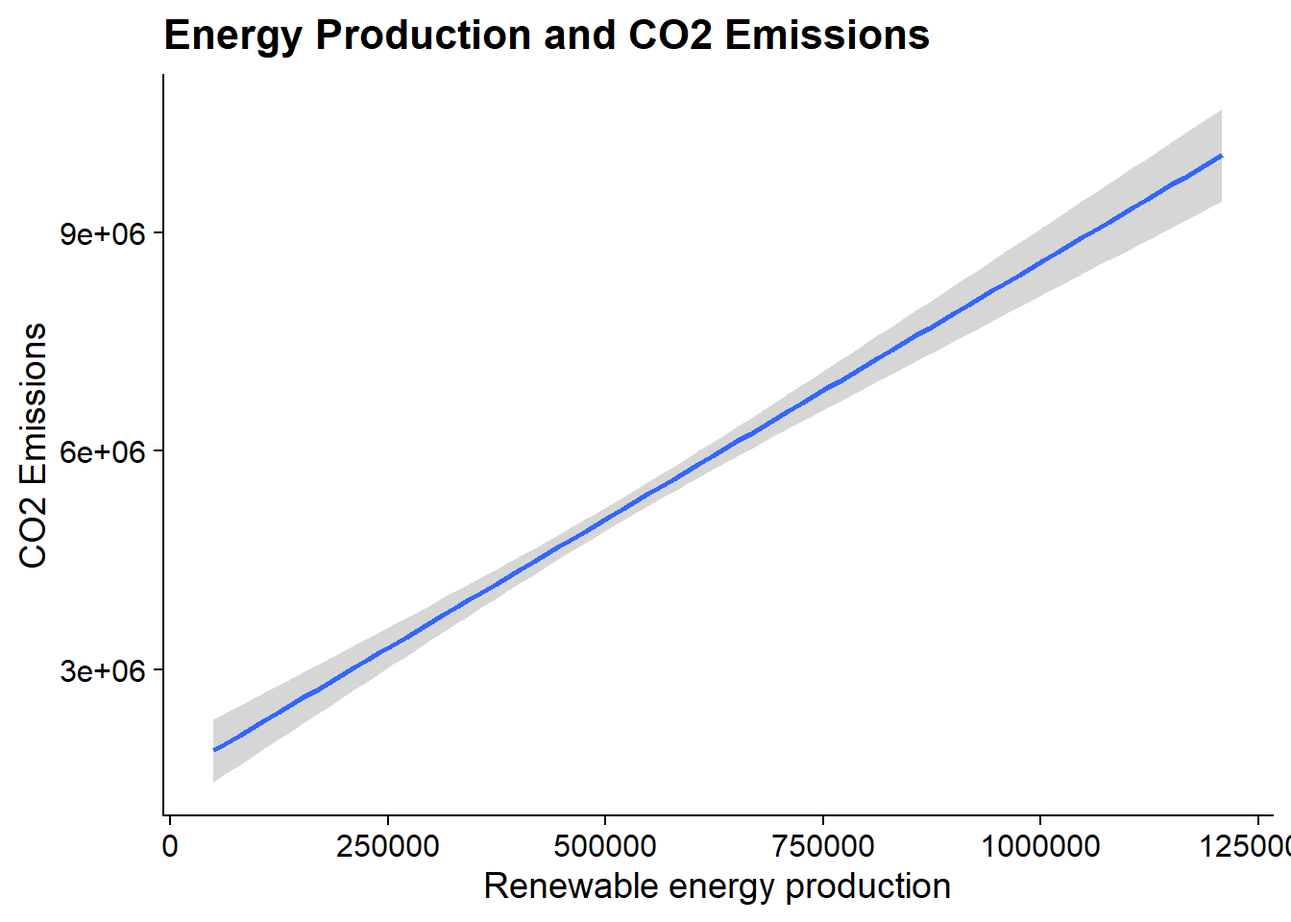
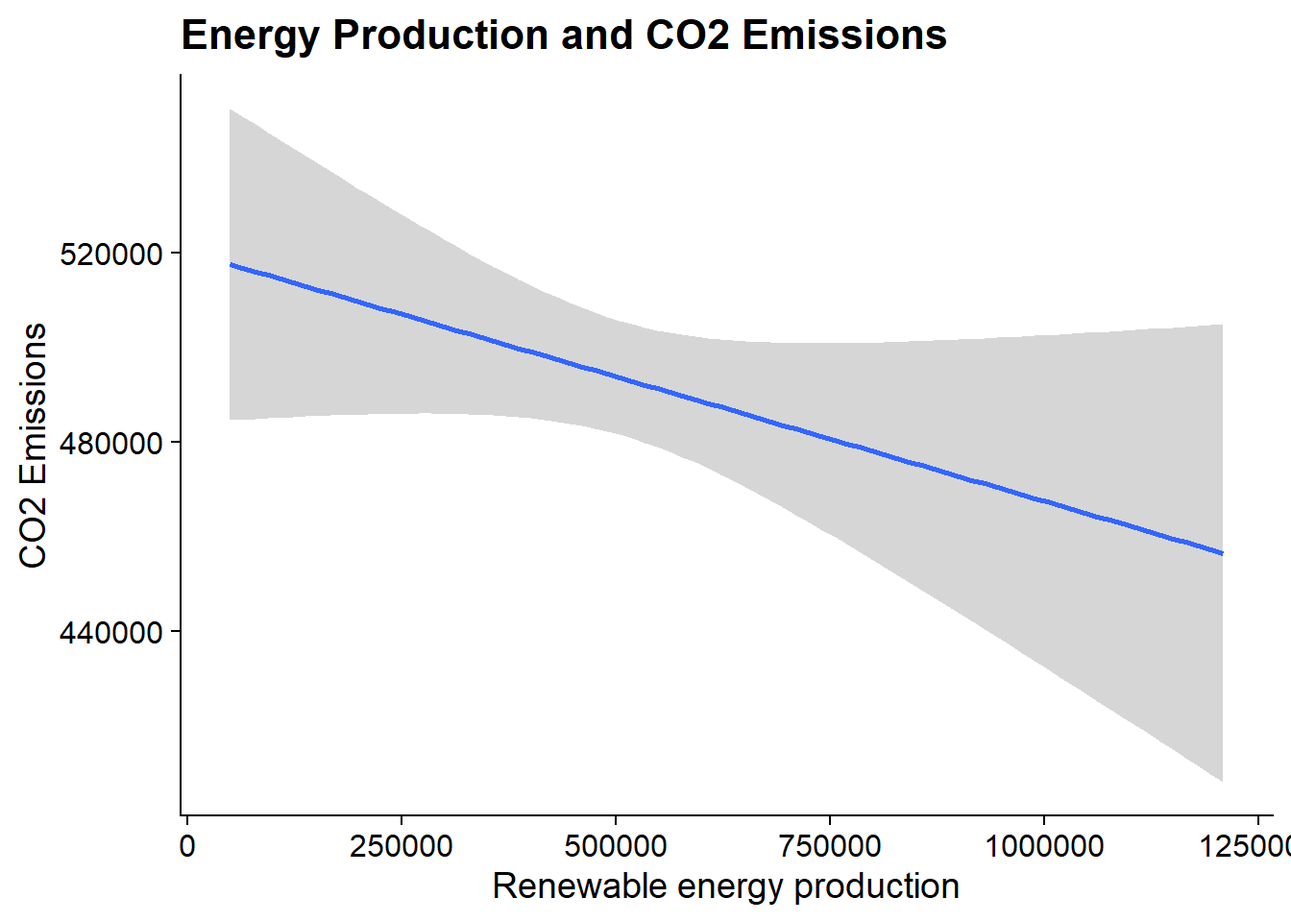
chore: actualiza sitio web

diff --git a/docs/bitacora-3.html b/docs/bitacora-3.html
@@ -175,8 +175,10 @@ pre > code.sourceCode > span > a:first-child::before { text-decoration: underlin
   <li><a href="#planificación" id="toc-planificación" class="nav-link" data-scroll-target="#planificación"><span class="header-section-number">3.1</span> Planificación</a>
   <ul class="collapse">
   <li><a href="#análisis-de-modelación" id="toc-análisis-de-modelación" class="nav-link" data-scroll-target="#análisis-de-modelación"><span class="header-section-number">3.1.1</span> Análisis de modelación</a></li>
-  <li><a href="#fichas-de-resultados" id="toc-fichas-de-resultados" class="nav-link" data-scroll-target="#fichas-de-resultados"><span class="header-section-number">3.1.2</span> Fichas de resultados</a></li>
-  <li><a href="#ordenamiento-de-los-elementos-del-reporte" id="toc-ordenamiento-de-los-elementos-del-reporte" class="nav-link" data-scroll-target="#ordenamiento-de-los-elementos-del-reporte"><span class="header-section-number">3.1.3</span> Ordenamiento de los elementos del reporte</a></li>
+  <li><a href="#análisis-descriptivo" id="toc-análisis-descriptivo" class="nav-link" data-scroll-target="#análisis-descriptivo"><span class="header-section-number">3.1.2</span> Análisis Descriptivo</a></li>
+  <li><a href="#justificación-modelo-seleccionado" id="toc-justificación-modelo-seleccionado" class="nav-link" data-scroll-target="#justificación-modelo-seleccionado"><span class="header-section-number">3.1.3</span> Justificación modelo seleccionado</a></li>
+  <li><a href="#fichas-de-resultados" id="toc-fichas-de-resultados" class="nav-link" data-scroll-target="#fichas-de-resultados"><span class="header-section-number">3.1.4</span> Fichas de resultados</a></li>
+  <li><a href="#ordenamiento-de-los-elementos-del-reporte" id="toc-ordenamiento-de-los-elementos-del-reporte" class="nav-link" data-scroll-target="#ordenamiento-de-los-elementos-del-reporte"><span class="header-section-number">3.1.5</span> Ordenamiento de los elementos del reporte</a></li>
   </ul></li>
   <li><a href="#parte-de-escritura" id="toc-parte-de-escritura" class="nav-link" data-scroll-target="#parte-de-escritura"><span class="header-section-number">3.2</span> Parte de escritura</a></li>
   <li><a href="#parte-de-reflexión" id="toc-parte-de-reflexión" class="nav-link" data-scroll-target="#parte-de-reflexión"><span class="header-section-number">3.3</span> Parte de reflexión</a></li>
@@ -211,52 +213,6 @@ pre > code.sourceCode > span > a:first-child::before { text-decoration: underlin
 
 <section id="setup" class="level3 hidden" data-number="3.0.1">
 <h3 class="hidden anchored" data-number="3.0.1" data-anchor-id="setup"><span class="header-section-number">3.0.1</span> Setup</h3>
-<div class="cell" data-warnings="false" data-hash="bitacora-3_cache/html/unnamed-chunk-1_957fbfa0892c9d37de72bc560db0de78">
-<div class="cell-output cell-output-stderr">
-<pre><code>Warning: package 'ggplot2' was built under R version 4.3.3</code></pre>
-</div>
-<div class="cell-output cell-output-stderr">
-<pre><code>Warning: package 'dplyr' was built under R version 4.3.3</code></pre>
-</div>
-<div class="cell-output cell-output-stderr">
-<pre><code>
-Attaching package: 'dplyr'</code></pre>
-</div>
-<div class="cell-output cell-output-stderr">
-<pre><code>The following objects are masked from 'package:stats':
-
-    filter, lag</code></pre>
-</div>
-<div class="cell-output cell-output-stderr">
-<pre><code>The following objects are masked from 'package:base':
-
-    intersect, setdiff, setequal, union</code></pre>
-</div>
-<div class="cell-output cell-output-stderr">
-<pre><code>Warning: package 'palmerpenguins' was built under R version 4.3.3</code></pre>
-</div>
-<div class="cell-output cell-output-stderr">
-<pre><code>Warning: package 'ggthemes' was built under R version 4.3.3</code></pre>
-</div>
-<div class="cell-output cell-output-stderr">
-<pre><code>Warning: package 'cowplot' was built under R version 4.3.3</code></pre>
-</div>
-<div class="cell-output cell-output-stderr">
-<pre><code>
-Attaching package: 'cowplot'</code></pre>
-</div>
-<div class="cell-output cell-output-stderr">
-<pre><code>The following object is masked from 'package:ggthemes':
-
-    theme_map</code></pre>
-</div>
-<div class="cell-output cell-output-stderr">
-<pre><code>Warning: package 'tidyr' was built under R version 4.3.3</code></pre>
-</div>
-<div class="cell-output cell-output-stderr">
-<pre><code>Warning: package 'purrr' was built under R version 4.3.3</code></pre>
-</div>
-</div>
 </section>
 <section id="planificación" class="level2" data-number="3.1">
 <h2 data-number="3.1" class="anchored" data-anchor-id="planificación"><span class="header-section-number">3.1</span> Planificación</h2>
@@ -264,52 +220,162 @@ Attaching package: 'cowplot'</code></pre>
 <h3 data-number="3.1.1" class="anchored" data-anchor-id="análisis-de-modelación"><span class="header-section-number">3.1.1</span> Análisis de modelación</h3>
 <p>Tomando en consideración las recomendaciones sobre la base de datos, se decidió reordenarla, de acuerdo a las categorías más relevantes a la pregunta de investigación, y anualizar los datos, uniendo las columnas con el mismo país, año y tipo de energía.</p>
 <p>Además, con el fin de automatizar la carga de la base de datos, la ruta de acceso parte desde la carpeta con el repositorio, de modo que al clonar el repositorio, este documento por sí mismo, sea capaz de acceder a la base de datos, facilitando el proceso.</p>
-<div class="cell" data-messages="false" data-warnings="false" data-hash="bitacora-3_cache/html/unnamed-chunk-2_ddc06201e833f9d9e5e008ffe8151653">
-<div class="sourceCode cell-code" id="cb13"><pre class="sourceCode r code-with-copy"><code class="sourceCode r"><span id="cb13-1"><a href="#cb13-1" aria-hidden="true" tabindex="-1"></a>original <span class="ot">&lt;-</span> <span class="fu">read.csv</span>(<span class="st">"data/complete_renewable_energy_dataset.csv"</span>)</span>
-<span id="cb13-2"><a href="#cb13-2" aria-hidden="true" tabindex="-1"></a>data <span class="ot">&lt;-</span> original<span class="sc">|&gt;</span> <span class="fu">group_by</span>(Country, Year, Energy.Type, Renewable.Energy.Education.Programs, Government.Policies) <span class="sc">|&gt;</span> <span class="fu">summarise</span>(<span class="at">Total.Production =</span> <span class="fu">sum</span>(Production..GWh.), <span class="at">Electricity.Prices =</span> <span class="fu">mean</span>(Electricity.Prices), <span class="at">R.D.Expenditure =</span> <span class="fu">sum</span>(R.D.Expenditure), <span class="at">CO2.Emissions =</span> <span class="fu">sum</span>(CO2.Emissions), <span class="at">Investments..USD. =</span> <span class="fu">sum</span>(Investments..USD.), <span class="at">Public.Awareness =</span> <span class="fu">mean</span>(Public.Awareness), <span class="at">Educational.Level =</span> <span class="fu">mean</span>(Educational.Level), <span class="at">Energy.Exports =</span> <span class="fu">sum</span>(Energy.Exports), <span class="at">Energy.Imports =</span> <span class="fu">sum</span>(Energy.Imports), <span class="at">Renewable.Energy.Jobs =</span> <span class="fu">sum</span>(Renewable.Energy.Jobs), <span class="at">Renewable.Energy.Patents =</span> <span class="fu">sum</span>(Renewable.Energy.Patents), <span class="at">Corruption.Perception.Index =</span> <span class="fu">mean</span>(Corruption.Perception.Index))</span></code><button title="Copiar al portapapeles" class="code-copy-button"><i class="bi"></i></button></pre></div>
+<p>Finalmente, se juntan las variables <code>Energy.Imports</code> y <code>Energy.Exports</code>, para lo cual, se pivotea de modo que el flujo de entradas y salidas quede en una sola variable denominada Energy.Flow, que se clasifique en importación o exportación por la variable Energy.Flow.Type.</p>
+<div class="cell" data-messages="false" data-warnings="false" data-hash="bitacora-3_cache/html/unnamed-chunk-2_3cdd056b1904337f3fde67a3b1d231fe">
+<div class="sourceCode cell-code" id="cb1"><pre class="sourceCode r code-with-copy"><code class="sourceCode r"><span id="cb1-1"><a href="#cb1-1" aria-hidden="true" tabindex="-1"></a>original <span class="ot">&lt;-</span> <span class="fu">read.csv</span>(<span class="st">"data/complete_renewable_energy_dataset.csv"</span>)</span>
+<span id="cb1-2"><a href="#cb1-2" aria-hidden="true" tabindex="-1"></a>data <span class="ot">&lt;-</span> original<span class="sc">|&gt;</span> <span class="fu">group_by</span>(Country, Year, Energy.Type) <span class="sc">|&gt;</span> <span class="fu">summarise</span>(<span class="at">Total.Production =</span> <span class="fu">sum</span>(Production..GWh.), <span class="at">Electricity.Prices =</span> <span class="fu">mean</span>(Electricity.Prices), <span class="at">R.D.Expenditure =</span> <span class="fu">sum</span>(R.D.Expenditure), <span class="at">CO2.Emissions =</span> <span class="fu">sum</span>(CO2.Emissions), <span class="at">Investments..USD. =</span> <span class="fu">sum</span>(Investments..USD.), <span class="at">Public.Awareness =</span> <span class="fu">mean</span>(Public.Awareness), <span class="at">Educational.Level =</span> <span class="fu">mean</span>(Educational.Level), <span class="at">Export =</span> <span class="fu">sum</span>(Energy.Exports), <span class="at">Import =</span> <span class="fu">sum</span>(Energy.Imports), <span class="at">Renewable.Energy.Jobs =</span> <span class="fu">sum</span>(Renewable.Energy.Jobs), <span class="at">Renewable.Energy.Patents =</span> <span class="fu">sum</span>(Renewable.Energy.Patents), <span class="at">Corruption.Perception.Index =</span> <span class="fu">mean</span>(Corruption.Perception.Index), <span class="at">Renewable.Energy.Education.Programs =</span> <span class="fu">max</span>(Renewable.Energy.Education.Programs), <span class="at">Government.Policies=</span> <span class="fu">max</span>(Government.Policies)) <span class="sc">%&gt;%</span> </span>
+<span id="cb1-3"><a href="#cb1-3" aria-hidden="true" tabindex="-1"></a>  <span class="fu">pivot_longer</span>(<span class="at">cols =</span> <span class="fu">c</span>(<span class="st">"Import"</span>, <span class="st">"Export"</span>),</span>
+<span id="cb1-4"><a href="#cb1-4" aria-hidden="true" tabindex="-1"></a>             <span class="at">names_to =</span> <span class="st">"Energy.Flow.Type"</span>,</span>
+<span id="cb1-5"><a href="#cb1-5" aria-hidden="true" tabindex="-1"></a>             <span class="at">values_to =</span> <span class="st">"Energy.Flow"</span>)</span></code><button title="Copiar al portapapeles" class="code-copy-button"><i class="bi"></i></button></pre></div>
+<div class="cell-output cell-output-stderr">
+<pre><code>`summarise()` has grouped output by 'Country', 'Year'. You can override using
+the `.groups` argument.</code></pre>
+</div>
+<div class="sourceCode cell-code" id="cb3"><pre class="sourceCode r code-with-copy"><code class="sourceCode r"><span id="cb3-1"><a href="#cb3-1" aria-hidden="true" tabindex="-1"></a>data</span></code><button title="Copiar al portapapeles" class="code-copy-button"><i class="bi"></i></button></pre></div>
+<div class="cell-output cell-output-stdout">
+<pre><code># A tibble: 2,100 × 17
+# Groups:   Country, Year [240]
+   Country  Year Energy.Type Total.Production Electricity.Prices R.D.Expenditure
+   &lt;chr&gt;   &lt;int&gt; &lt;chr&gt;                  &lt;dbl&gt;              &lt;dbl&gt;           &lt;dbl&gt;
+ 1 Austra…  2000 Biomass               43637.              0.204     6451974689.
+ 2 Austra…  2000 Biomass               43637.              0.204     6451974689.
+ 3 Austra…  2000 Geothermal           146551.              0.198    11552134303.
+ 4 Austra…  2000 Geothermal           146551.              0.198    11552134303.
+ 5 Austra…  2000 Hydro                158083.              0.217    20096098212.
+ 6 Austra…  2000 Hydro                158083.              0.217    20096098212.
+ 7 Austra…  2000 Solar                 64258.              0.252     4464797633.
+ 8 Austra…  2000 Solar                 64258.              0.252     4464797633.
+ 9 Austra…  2000 Wind                  94075.              0.260    11999369763.
+10 Austra…  2000 Wind                  94075.              0.260    11999369763.
+# ℹ 2,090 more rows
+# ℹ 11 more variables: CO2.Emissions &lt;dbl&gt;, Investments..USD. &lt;dbl&gt;,
+#   Public.Awareness &lt;dbl&gt;, Educational.Level &lt;dbl&gt;,
+#   Renewable.Energy.Jobs &lt;int&gt;, Renewable.Energy.Patents &lt;int&gt;,
+#   Corruption.Perception.Index &lt;dbl&gt;,
+#   Renewable.Energy.Education.Programs &lt;int&gt;, Government.Policies &lt;int&gt;,
+#   Energy.Flow.Type &lt;chr&gt;, Energy.Flow &lt;dbl&gt;</code></pre>
+</div>
+</div>
+<p>Nótese que se cambiaron las variables con respecto a la bitácora anterior, con el fin de simplificar el análisis, pero aún así, abarcar diversas áreas, de acuerdo a la pregunta de investigación: social, económica y ambiental.</p>
+</section>
+<section id="análisis-descriptivo" class="level3" data-number="3.1.2">
+<h3 data-number="3.1.2" class="anchored" data-anchor-id="análisis-descriptivo"><span class="header-section-number">3.1.2</span> Análisis Descriptivo</h3>
+<p>Dados ya los hallazgos anteriores, resulta interesante analizar el flujo energético de los países. Para ello, la figura 3.1 representa el total de importaciones, comparado al total de exportaciones, por cada país durante el periodo estudiado, 2000 a 2020.</p>
+<div class="cell" data-messages="false" data-warnings="false" data-hash="bitacora-3_cache/html/unnamed-chunk-3_f2f91be9a9e923cce6e58f09ef8d2c5c">
+<div class="sourceCode cell-code" id="cb5"><pre class="sourceCode r code-with-copy"><code class="sourceCode r"><span id="cb5-1"><a href="#cb5-1" aria-hidden="true" tabindex="-1"></a><span class="fu">ggplot</span>(data, <span class="fu">aes</span>(<span class="at">x =</span> Country, <span class="at">y =</span> Energy.Flow)) <span class="sc">+</span></span>
+<span id="cb5-2"><a href="#cb5-2" aria-hidden="true" tabindex="-1"></a>  <span class="fu">geom_bar</span>(<span class="fu">aes</span>(<span class="at">fill =</span> Energy.Flow.Type),</span>
+<span id="cb5-3"><a href="#cb5-3" aria-hidden="true" tabindex="-1"></a>           <span class="at">stat =</span> <span class="st">"identity"</span>,</span>
+<span id="cb5-4"><a href="#cb5-4" aria-hidden="true" tabindex="-1"></a>           <span class="at">position =</span> <span class="fu">position_dodge</span>()) <span class="sc">+</span></span>
+<span id="cb5-5"><a href="#cb5-5" aria-hidden="true" tabindex="-1"></a>  <span class="fu">labs</span>(<span class="at">title =</span> <span class="st">"Contry's Energy Flow Comparison"</span>,</span>
+<span id="cb5-6"><a href="#cb5-6" aria-hidden="true" tabindex="-1"></a>       <span class="at">y =</span> <span class="st">""</span>,</span>
+<span id="cb5-7"><a href="#cb5-7" aria-hidden="true" tabindex="-1"></a>       <span class="at">caption=</span> <span class="st">"Procedings of https://www.kaggle.com/datasets/anishvijay/global-renewable-energy-and-indicators-dataset"</span>,</span>
+<span id="cb5-8"><a href="#cb5-8" aria-hidden="true" tabindex="-1"></a>       <span class="at">tag =</span> <span class="st">"Fig.3.1"</span>)<span class="sc">+</span></span>
+<span id="cb5-9"><a href="#cb5-9" aria-hidden="true" tabindex="-1"></a>  <span class="fu">scale_fill_manual</span>(<span class="at">name=</span><span class="st">""</span>, </span>
+<span id="cb5-10"><a href="#cb5-10" aria-hidden="true" tabindex="-1"></a>                    <span class="at">labels =</span> <span class="fu">c</span>(<span class="st">"Export"</span>, <span class="st">"Import"</span>), </span>
+<span id="cb5-11"><a href="#cb5-11" aria-hidden="true" tabindex="-1"></a>                    <span class="at">values =</span> <span class="fu">c</span>(<span class="st">"Import"</span><span class="ot">=</span><span class="st">"#00ba88"</span>, <span class="st">"Export"</span><span class="ot">=</span><span class="st">"#f8966d"</span>))<span class="sc">+</span></span>
+<span id="cb5-12"><a href="#cb5-12" aria-hidden="true" tabindex="-1"></a>  <span class="fu">theme_cowplot</span>()<span class="sc">+</span></span>
+<span id="cb5-13"><a href="#cb5-13" aria-hidden="true" tabindex="-1"></a>  <span class="fu">theme</span>(<span class="at">legend.position =</span> <span class="st">"top"</span>,</span>
+<span id="cb5-14"><a href="#cb5-14" aria-hidden="true" tabindex="-1"></a>        <span class="at">plot.tag.position =</span> <span class="st">"topright"</span>,</span>
+<span id="cb5-15"><a href="#cb5-15" aria-hidden="true" tabindex="-1"></a>        <span class="at">plot.tag =</span> <span class="fu">element_text</span>(<span class="at">face =</span> <span class="st">"italic"</span>))</span></code><button title="Copiar al portapapeles" class="code-copy-button"><i class="bi"></i></button></pre></div>
+<div class="cell-output-display">
+<p><img src="bitacora-3_files/figure-html/unnamed-chunk-3-1.png" class="img-fluid" width="768"></p>
+</div>
+</div>
+<p>Mientras que la figura 3.2 separa esta información por años, con el fin de detectar tendencias.</p>
+<div class="cell" data-messages="false" data-warnings="false" data-hash="bitacora-3_cache/html/unnamed-chunk-4_cfe6f786882b55a94ebfc9ed2b319a2b">
+<div class="sourceCode cell-code" id="cb6"><pre class="sourceCode r code-with-copy"><code class="sourceCode r"><span id="cb6-1"><a href="#cb6-1" aria-hidden="true" tabindex="-1"></a><span class="fu">ggplot</span>(data, <span class="fu">aes</span>(<span class="at">x =</span> Country, <span class="at">y =</span> Energy.Flow)) <span class="sc">+</span></span>
+<span id="cb6-2"><a href="#cb6-2" aria-hidden="true" tabindex="-1"></a>  <span class="fu">geom_bar</span>(<span class="fu">aes</span>(<span class="at">fill =</span> Energy.Flow.Type),</span>
+<span id="cb6-3"><a href="#cb6-3" aria-hidden="true" tabindex="-1"></a>           <span class="at">stat =</span> <span class="st">"identity"</span>,</span>
+<span id="cb6-4"><a href="#cb6-4" aria-hidden="true" tabindex="-1"></a>           <span class="at">position =</span> <span class="fu">position_dodge</span>()) <span class="sc">+</span></span>
+<span id="cb6-5"><a href="#cb6-5" aria-hidden="true" tabindex="-1"></a>  <span class="fu">facet_wrap</span>(<span class="sc">~</span>Year, <span class="at">ncol =</span> <span class="dv">2</span>)<span class="sc">+</span></span>
+<span id="cb6-6"><a href="#cb6-6" aria-hidden="true" tabindex="-1"></a>  <span class="fu">labs</span>(<span class="at">title =</span> <span class="st">"Contry's Energy Flow Comparison"</span>,</span>
+<span id="cb6-7"><a href="#cb6-7" aria-hidden="true" tabindex="-1"></a>       <span class="at">y =</span> <span class="st">""</span>,</span>
+<span id="cb6-8"><a href="#cb6-8" aria-hidden="true" tabindex="-1"></a>       <span class="at">caption=</span> <span class="st">"Procedings of https://www.kaggle.com/datasets/anishvijay/global-renewable-energy-and-indicators-dataset"</span>,</span>
+<span id="cb6-9"><a href="#cb6-9" aria-hidden="true" tabindex="-1"></a>       <span class="at">tag =</span> <span class="st">"Fig.3.2"</span>)<span class="sc">+</span></span>
+<span id="cb6-10"><a href="#cb6-10" aria-hidden="true" tabindex="-1"></a>  <span class="fu">scale_fill_manual</span>(<span class="at">name=</span><span class="st">""</span>, </span>
+<span id="cb6-11"><a href="#cb6-11" aria-hidden="true" tabindex="-1"></a>                    <span class="at">labels =</span> <span class="fu">c</span>(<span class="st">"Export"</span>, <span class="st">"Import"</span>), </span>
+<span id="cb6-12"><a href="#cb6-12" aria-hidden="true" tabindex="-1"></a>                    <span class="at">values =</span> <span class="fu">c</span>(<span class="st">"Import"</span><span class="ot">=</span><span class="st">"#00ba88"</span>, <span class="st">"Export"</span><span class="ot">=</span><span class="st">"#f8966d"</span>))<span class="sc">+</span></span>
+<span id="cb6-13"><a href="#cb6-13" aria-hidden="true" tabindex="-1"></a>  <span class="fu">theme_cowplot</span>()<span class="sc">+</span></span>
+<span id="cb6-14"><a href="#cb6-14" aria-hidden="true" tabindex="-1"></a>  <span class="fu">theme</span>(<span class="at">legend.position =</span> <span class="st">"top"</span>,</span>
+<span id="cb6-15"><a href="#cb6-15" aria-hidden="true" tabindex="-1"></a>        <span class="at">plot.tag.position =</span> <span class="st">"topright"</span>,</span>
+<span id="cb6-16"><a href="#cb6-16" aria-hidden="true" tabindex="-1"></a>        <span class="at">plot.tag =</span> <span class="fu">element_text</span>(<span class="at">face =</span> <span class="st">"italic"</span>),</span>
+<span id="cb6-17"><a href="#cb6-17" aria-hidden="true" tabindex="-1"></a>        <span class="at">axis.text.x =</span> <span class="fu">element_text</span>(<span class="at">angle =</span> <span class="dv">45</span>, <span class="at">vjust=</span>.<span class="dv">5</span>, <span class="at">hjust=</span><span class="fl">0.3</span>))</span></code><button title="Copiar al portapapeles" class="code-copy-button"><i class="bi"></i></button></pre></div>
+<div class="cell-output-display">
+<p><img src="bitacora-3_files/figure-html/unnamed-chunk-4-1.png" class="img-fluid" width="768"></p>
+</div>
+</div>
+<p>Si bien los gráficos anteriores brindan una idea de cuánta energía se importa o exporta, resulta también interesante ver esta cantidad como proporción de la energía producida en cada país. La figura 3.3. se realiz´po con el fin de comparar la proporción de energía intercambiada con respecto a la energía producida; para facilitar la visualización de los datos en el gráfico, se retiraron algunos valores extremos, que se analizarán en los siguientes gráficos.</p>
+<div class="cell" data-messages="false" data-warnings="false" data-hash="bitacora-3_cache/html/unnamed-chunk-5_e5de9b2a38c390623e4312831d5fe2e3">
+<div class="sourceCode cell-code" id="cb7"><pre class="sourceCode r code-with-copy"><code class="sourceCode r"><span id="cb7-1"><a href="#cb7-1" aria-hidden="true" tabindex="-1"></a>data <span class="sc">%&gt;%</span> <span class="fu">group_by</span>(Country, Year, Energy.Type, Energy.Flow.Type) <span class="sc">%&gt;%</span> </span>
+<span id="cb7-2"><a href="#cb7-2" aria-hidden="true" tabindex="-1"></a>  <span class="fu">summarise</span>(<span class="at">Flow.Proportion =</span> <span class="fu">sum</span>(Energy.Flow)<span class="sc">/</span><span class="fu">sum</span>(Total.Production)) <span class="sc">%&gt;%</span> <span class="fu">filter</span>(Flow.Proportion <span class="sc">&lt;</span> <span class="dv">10</span>) <span class="sc">%&gt;%</span> </span>
+<span id="cb7-3"><a href="#cb7-3" aria-hidden="true" tabindex="-1"></a>  <span class="fu">ggplot</span>(<span class="fu">aes</span>(<span class="at">x =</span> Year))<span class="sc">+</span></span>
+<span id="cb7-4"><a href="#cb7-4" aria-hidden="true" tabindex="-1"></a>  <span class="fu">geom_bar</span>(<span class="fu">aes</span>(<span class="at">y =</span> Flow.Proportion, <span class="at">fill =</span> Energy.Flow.Type),</span>
+<span id="cb7-5"><a href="#cb7-5" aria-hidden="true" tabindex="-1"></a>           <span class="at">stat =</span> <span class="st">"identity"</span>,</span>
+<span id="cb7-6"><a href="#cb7-6" aria-hidden="true" tabindex="-1"></a>           <span class="at">position =</span> <span class="fu">position_dodge</span>())<span class="sc">+</span></span>
+<span id="cb7-7"><a href="#cb7-7" aria-hidden="true" tabindex="-1"></a>  <span class="fu">facet_wrap</span>(Energy.Type<span class="sc">~</span>Country, <span class="at">ncol =</span> <span class="dv">2</span>) <span class="sc">+</span></span>
+<span id="cb7-8"><a href="#cb7-8" aria-hidden="true" tabindex="-1"></a>  <span class="fu">labs</span>(<span class="at">title =</span> <span class="st">"Contry's Energy Flow Comparison"</span>,</span>
+<span id="cb7-9"><a href="#cb7-9" aria-hidden="true" tabindex="-1"></a>       <span class="at">subtitle =</span> <span class="st">"as Total Production's proportion"</span>,</span>
+<span id="cb7-10"><a href="#cb7-10" aria-hidden="true" tabindex="-1"></a>       <span class="at">y =</span> <span class="st">""</span>,</span>
+<span id="cb7-11"><a href="#cb7-11" aria-hidden="true" tabindex="-1"></a>       <span class="at">tag =</span> <span class="st">"Fig.3.3."</span>,</span>
+<span id="cb7-12"><a href="#cb7-12" aria-hidden="true" tabindex="-1"></a>       <span class="at">caption=</span> <span class="st">"Procedings of https://www.kaggle.com/datasets/anishvijay/global-renewable-energy-and-indicators-dataset"</span>)<span class="sc">+</span></span>
+<span id="cb7-13"><a href="#cb7-13" aria-hidden="true" tabindex="-1"></a>  <span class="fu">scale_fill_manual</span>(<span class="at">name=</span><span class="st">""</span>, </span>
+<span id="cb7-14"><a href="#cb7-14" aria-hidden="true" tabindex="-1"></a>                    <span class="at">labels =</span> <span class="fu">c</span>(<span class="st">"Export"</span>, <span class="st">"Import"</span>), </span>
+<span id="cb7-15"><a href="#cb7-15" aria-hidden="true" tabindex="-1"></a>                    <span class="at">values =</span> <span class="fu">c</span>(<span class="st">"Import"</span><span class="ot">=</span><span class="st">"#00ba88"</span>, <span class="st">"Export"</span><span class="ot">=</span><span class="st">"#f8966d"</span>))<span class="sc">+</span></span>
+<span id="cb7-16"><a href="#cb7-16" aria-hidden="true" tabindex="-1"></a>  <span class="fu">theme_cowplot</span>()<span class="sc">+</span></span>
+<span id="cb7-17"><a href="#cb7-17" aria-hidden="true" tabindex="-1"></a>  <span class="fu">theme</span>(<span class="at">legend.position =</span> <span class="st">"top"</span>,</span>
+<span id="cb7-18"><a href="#cb7-18" aria-hidden="true" tabindex="-1"></a>        <span class="at">plot.tag.position =</span> <span class="st">"topright"</span>,</span>
+<span id="cb7-19"><a href="#cb7-19" aria-hidden="true" tabindex="-1"></a>        <span class="at">plot.tag =</span> <span class="fu">element_text</span>(<span class="at">face =</span> <span class="st">"italic"</span>),</span>
+<span id="cb7-20"><a href="#cb7-20" aria-hidden="true" tabindex="-1"></a>        <span class="at">axis.text.x =</span> <span class="fu">element_text</span>(<span class="at">angle =</span> <span class="dv">45</span>, <span class="at">vjust=</span>.<span class="dv">5</span>, <span class="at">hjust=</span><span class="fl">0.3</span>))</span></code><button title="Copiar al portapapeles" class="code-copy-button"><i class="bi"></i></button></pre></div>
+<div class="cell-output cell-output-stderr">
+<pre><code>`summarise()` has grouped output by 'Country', 'Year', 'Energy.Type'. You can
+override using the `.groups` argument.</code></pre>
+</div>
+<div class="cell-output-display">
+<p><img src="bitacora-3_files/figure-html/unnamed-chunk-5-1.png" class="img-fluid" width="768"></p>
+</div>
+</div>
+<div class="cell" data-messages="false" data-warnings="false" data-hash="bitacora-3_cache/html/unnamed-chunk-6_6db42667768107eaa30a8224c83d5c59">
+<div class="sourceCode cell-code" id="cb9"><pre class="sourceCode r code-with-copy"><code class="sourceCode r"><span id="cb9-1"><a href="#cb9-1" aria-hidden="true" tabindex="-1"></a>data <span class="sc">%&gt;%</span> <span class="fu">group_by</span>(Country, Year, Energy.Type, Energy.Flow.Type, Total.Production) <span class="sc">%&gt;%</span> </span>
+<span id="cb9-2"><a href="#cb9-2" aria-hidden="true" tabindex="-1"></a>  <span class="fu">summarise</span>(<span class="at">Flow.Proportion =</span> <span class="fu">sum</span>(Energy.Flow)<span class="sc">/</span><span class="fu">sum</span>(Total.Production)) <span class="sc">%&gt;%</span> <span class="fu">filter</span>(Flow.Proportion <span class="sc">&gt;</span> <span class="dv">10</span>)</span></code><button title="Copiar al portapapeles" class="code-copy-button"><i class="bi"></i></button></pre></div>
 <div class="cell-output cell-output-stderr">
 <pre><code>`summarise()` has grouped output by 'Country', 'Year', 'Energy.Type',
-'Renewable.Energy.Education.Programs'. You can override using the `.groups`
-argument.</code></pre>
+'Energy.Flow.Type'. You can override using the `.groups` argument.</code></pre>
 </div>
-<div class="sourceCode cell-code" id="cb15"><pre class="sourceCode r code-with-copy"><code class="sourceCode r"><span id="cb15-1"><a href="#cb15-1" aria-hidden="true" tabindex="-1"></a>data</span></code><button title="Copiar al portapapeles" class="code-copy-button"><i class="bi"></i></button></pre></div>
 <div class="cell-output cell-output-stdout">
-<pre><code># A tibble: 1,951 × 17
-# Groups:   Country, Year, Energy.Type, Renewable.Energy.Education.Programs
-#   [1,550]
-   Country    Year Energy.Type Renewable.Energy.Education.…¹ Government.Policies
-   &lt;chr&gt;     &lt;int&gt; &lt;chr&gt;                               &lt;int&gt;               &lt;int&gt;
- 1 Australia  2000 Biomass                                 1                   1
- 2 Australia  2000 Geothermal                              0                   0
- 3 Australia  2000 Geothermal                              1                   0
- 4 Australia  2000 Hydro                                   0                   1
- 5 Australia  2000 Hydro                                   1                   1
- 6 Australia  2000 Solar                                   0                   0
- 7 Australia  2000 Wind                                    0                   0
- 8 Australia  2000 Wind                                    1                   0
- 9 Australia  2001 Biomass                                 0                   0
-10 Australia  2001 Biomass                                 1                   1
-# ℹ 1,941 more rows
-# ℹ abbreviated name: ¹Renewable.Energy.Education.Programs
-# ℹ 12 more variables: Total.Production &lt;dbl&gt;, Electricity.Prices &lt;dbl&gt;,
-#   R.D.Expenditure &lt;dbl&gt;, CO2.Emissions &lt;dbl&gt;, Investments..USD. &lt;dbl&gt;,
-#   Public.Awareness &lt;dbl&gt;, Educational.Level &lt;dbl&gt;, Energy.Exports &lt;dbl&gt;,
-#   Energy.Imports &lt;dbl&gt;, Renewable.Energy.Jobs &lt;int&gt;,
-#   Renewable.Energy.Patents &lt;int&gt;, Corruption.Perception.Index &lt;dbl&gt;</code></pre>
+<pre><code># A tibble: 32 × 6
+# Groups:   Country, Year, Energy.Type, Energy.Flow.Type [32]
+   Country  Year Energy.Type Energy.Flow.Type Total.Production Flow.Proportion
+   &lt;chr&gt;   &lt;int&gt; &lt;chr&gt;       &lt;chr&gt;                       &lt;dbl&gt;           &lt;dbl&gt;
+ 1 Brazil   2001 Geothermal  Export                      8223.            10.9
+ 2 Brazil   2008 Wind        Export                      4253.            23.2
+ 3 Brazil   2008 Wind        Import                      4253.            11.5
+ 4 Brazil   2009 Solar       Export                      1087.            91.7
+ 5 Brazil   2009 Solar       Import                      1087.            20.3
+ 6 Canada   2003 Geothermal  Export                      6653.            14.3
+ 7 Canada   2007 Wind        Export                      3389.            29.4
+ 8 Canada   2007 Wind        Import                      3389.            14.3
+ 9 France   2000 Geothermal  Export                      1705.            23.2
+10 France   2000 Geothermal  Import                      1705.            19.1
+# ℹ 22 more rows</code></pre>
 </div>
 </div>
-<p>Nótese que se cambiaron las variables con respecto a la bitácora anterior, con el fin de simplificar el análisis, pero aún así, abarcar diversas áreas, de acuerdo a la pregunta de investigación: socal, económica y ambiental.</p>
-<div class="cell" data-hash="bitacora-3_cache/html/unnamed-chunk-3_ca77366e8b076c5a922d6612861a957d">
+</section>
+<section id="justificación-modelo-seleccionado" class="level3" data-number="3.1.3">
+<h3 data-number="3.1.3" class="anchored" data-anchor-id="justificación-modelo-seleccionado"><span class="header-section-number">3.1.3</span> Justificación modelo seleccionado</h3>
+<p><strong>Pregunta de investigación:</strong> * ¿Qué cambios ambientales y socioeconómicos produce la instauración de la energía renovable en los países?</p>
+<p>¿Qué responde mi modelo?</p>
+<p>¿Y qué no?</p>
+<div class="cell" data-hash="bitacora-3_cache/html/unnamed-chunk-7_4c0f5ab5e7a09f0d405a9bc674a78494">
 <div class="cell-output cell-output-stdout">
 <pre><code>[1] 4</code></pre>
 </div>
 </div>
 </section>
-<section id="fichas-de-resultados" class="level3" data-number="3.1.2">
-<h3 data-number="3.1.2" class="anchored" data-anchor-id="fichas-de-resultados"><span class="header-section-number">3.1.2</span> Fichas de resultados</h3>
+<section id="fichas-de-resultados" class="level3" data-number="3.1.4">
+<h3 data-number="3.1.4" class="anchored" data-anchor-id="fichas-de-resultados"><span class="header-section-number">3.1.4</span> Fichas de resultados</h3>
 </section>
-<section id="ordenamiento-de-los-elementos-del-reporte" class="level3" data-number="3.1.3">
-<h3 data-number="3.1.3" class="anchored" data-anchor-id="ordenamiento-de-los-elementos-del-reporte"><span class="header-section-number">3.1.3</span> Ordenamiento de los elementos del reporte</h3>
+<section id="ordenamiento-de-los-elementos-del-reporte" class="level3" data-number="3.1.5">
+<h3 data-number="3.1.5" class="anchored" data-anchor-id="ordenamiento-de-los-elementos-del-reporte"><span class="header-section-number">3.1.5</span> Ordenamiento de los elementos del reporte</h3>
 </section>
 </section>
 <section id="parte-de-escritura" class="level2" data-number="3.2">
@@ -318,7 +384,8 @@ argument.</code></pre>
 <section id="parte-de-reflexión" class="level2" data-number="3.3">
 <h2 data-number="3.3" class="anchored" data-anchor-id="parte-de-reflexión"><span class="header-section-number">3.3</span> Parte de reflexión</h2>
 <p>Con el fin de delimitar la pregunta de investigación de modo que coincida con los datos analizados en este proyecto, se plantea como pregunta de investigación: <strong>¿Qué cambios ambientales y socioeconómicos produce la instauración de la energía renovable en los países?</strong></p>
-<p>Para responder a esta pregunta, se analizan variables relacionadas a la educación de los habitantes de los países analizados: Australia, Brasil, Canadá, China, Francia, Alemania, India, Japón, Rusia y Estados Unidos; como el nivel educativo, la existencia o no de programas educativos sobre energía renovable, y el nivel de conciencia pública…</p>
+<p>Para responder a esta pregunta, se analizan variables relacionadas a la educación de los habitantes de los países analizados: Australia, Brasil, Canadá, China, Francia, Alemania, India, Japón, Rusia y Estados Unidos; como el nivel educativo, la existencia o no de programas educativos sobre energía renovable, y el nivel de conciencia pública… Se retiraron de variables analizadas, tanto en la bitácora 2 como en la bitácora 3, el gdp (PIB nominal) y la población, dado que no aportan datos suficientemente relevantes a la investigación. Además, considerando la naturaleza de las avraibles, se optó por aplicar métodos distintos que se ajusten a los valores que estas deben tomar, por ejemplo, para anualizar la producción, se suman los datos contenidos en cada observación en vez de promediarlos; pero para los precios de la electricidad, los valores sí se promedian.</p>
+<p>Tomando en cuenta las observaciones realizadas a las bitácoras pasadas, se incorpora un caption con la fuente de la base de datos en cada gráfico. Se incorporan también tags, para facilitar la identificación de los gráficos.</p>
 
 
 </section>

diff --git a/docs/bitacora-1.html b/docs/bitacora-1.html
@@ -202,7 +202,7 @@ ul.task-list li input[type="checkbox"] {
 <h2 data-number="1.2" class="anchored" data-anchor-id="planificación"><span class="header-section-number">1.2</span> Planificación</h2>
 <section id="pregunta-de-investigación" class="level3" data-number="1.2.1">
 <h3 data-number="1.2.1" class="anchored" data-anchor-id="pregunta-de-investigación"><span class="header-section-number">1.2.1</span> Pregunta de Investigación</h3>
-<p>¿Qué impacto puede tener la energía renovable sobre la sociedad?</p>
+<p>¿Qué cambios ambientales y socioeconómicos produce la instauración de la energía renovable en los países?</p>
 <section id="definición-de-la-idea" class="level4" data-number="1.2.1.1">
 <h4 data-number="1.2.1.1" class="anchored" data-anchor-id="definición-de-la-idea"><span class="header-section-number">1.2.1.1</span> Definición de la idea</h4>
 <p>La idea inicial consiste en abordar la energía renovable, su producción, utilización, el intercambio que se da entre países; así como el impacto que la utilización de energías renovables puede tener sobre la sociedad como conjunto. Este tema resulta interesante, especialmente bajo el contexto actual, puesto que es usual pensar en las energías renovables para combatir el cambio climático; sin embargo, no es tan común escuchar del impacto social que esta produce, ejemplo de ello es el cambio en los paisajes que señala Requejo en el 2012, la posibilidad de alterar el abastecimiento energético que señalan Casola y Freier en el 2018, o los efectos económicos que plantean Caraballo y García en el 2017. Este trabajo pretende abordar no solo la parte de la energía como tal, sino su impacto en los países que la produce y utilizan. De esta manera, la idea se resume en: Considerar la producción de energías renovales en diversos países, y el impacto que esto tiene sobre ellos.</p>
@@ -222,13 +222,14 @@ ul.task-list li input[type="checkbox"] {
 <section id="reformulación-de-la-idea-en-modo-de-pregunta" class="level4" data-number="1.2.1.4">
 <h4 data-number="1.2.1.4" class="anchored" data-anchor-id="reformulación-de-la-idea-en-modo-de-pregunta"><span class="header-section-number">1.2.1.4</span> Reformulación de la idea en modo de pregunta</h4>
 <p><strong>¿Qué impacto puede tener la energía renovable sobre la sociedad?</strong></p>
+<p><strong>¿Qué cambios ambientales y socioeconómicos produce la instauración de la energía renovable en los países?</strong></p>
 <p><strong>¿Cómo puedo comparar los países en materia de enegías renovables?</strong></p>
 <p><strong>¿Puede la utilización de energías renovables garantizar un futuro sostenible?</strong></p>
 <p><strong>¿Cuáles factores afectan la producción de energía renovable?</strong></p>
 </section>
 <section id="argumentación-de-la-pregunta" class="level4" data-number="1.2.1.5">
 <h4 data-number="1.2.1.5" class="anchored" data-anchor-id="argumentación-de-la-pregunta"><span class="header-section-number">1.2.1.5</span> Argumentación de la pregunta</h4>
-<p><strong>Pregunta: ¿Qué impacto puede tener la energía renovable sobre la sociedad?</strong></p>
+<p><strong>Pregunta: ¿Qué cambios ambientales y socioeconómicos produce la instauración de la energía renovable en los países?</strong></p>
 <p><strong>Contraargumentos</strong></p>
 <p>-<strong>Ética:</strong> La inversión de energía renovable podría llegar a ser costosa, por lo que podrían salir perjudicados lo grupos más vulnerables.</p>
 <p>-<strong>Lógica:</strong> Las energías renovables como lo son la energía solar y eólica pueden no estar disponible dependiendo de la zona donde estén instaladas.</p>
@@ -496,7 +497,7 @@ ul.task-list li input[type="checkbox"] {
 </section>
 <section id="parte-de-escritura" class="level2" data-number="1.3">
 <h2 data-number="1.3" class="anchored" data-anchor-id="parte-de-escritura"><span class="header-section-number">1.3</span> Parte de Escritura</h2>
-<p><strong>Pregunta de investigación:</strong> ¿Qué impacto puede tener la energía renovable sobre la sociedad?</p>
+<p><strong>Pregunta de investigación:</strong> ¿Qué cambios ambientales y socioeconómicos produce la instauración de la energía renovable en los países?</p>
 <p>Para analizar los efectos que puede tener la energía renovable sobre la sociedad, es importante entender no solo qué es la energía renovable, sino también cómo ha sido estudiada y aplicada previamente. La energía renovable se define como la energía derivada de recursos naturales que se reponen continuamente, como la luz solar, el viento, el agua, la biomasa y la energía geotérmica (United Nations, s.f.). Estas fuentes de energía son abundantes y en todo el mundo se muestra la disponibilidad de alguna de ellas, lo que las hace sumamente relevantes para la transición hacia un futuro con energía más sostenible, y enfrentar los inconvenientes del cambio climático.</p>
 <p>En términos ambientales, la adopción de energías renovables puede reducir considerablemente las emisiones de gases de efecto invernadero, mejorando así la calidad del aire y disminuyendo los efectos negativos del cambio climático en la salud pública (United Nations, s.f.). Esta transformación, además de ser primordial para amortiguar los efectos negativos del cambio climático, también es pertinente para lograr un desarrollo sostenible.</p>
 <p>Con el fin de responder la pregunta plenteada, se analizarán diversos factores que inciden en la producción y utilización de energías renovables. Entre estos destaca la disponibilidad de recursos naturales, puesto que la eficiencia de la producción depende en gran medida de su ubicación geográfica, las condiciones climáticas y los recursos naturales presentes en la región (Casamitjana, 2017). Por ello, se considerará además la inversión destinada a la investigación y el desarrollo de nuevas tecnologías que permitan reducir las brechas entre países.</p>

diff --git a/docs/Bitacora-2.html b/docs/Bitacora-2.html
@@ -288,8 +288,8 @@ Attaching package: 'cowplot'</code></pre>
 <colgroup>
 <col style="width: 16%">
 <col style="width: 16%">
-<col style="width: 18%">
-<col style="width: 17%">
+<col style="width: 16%">
+<col style="width: 16%">
 <col style="width: 16%">
 <col style="width: 16%">
 </colgroup>
@@ -563,8 +563,8 @@ Attaching package: 'cowplot'</code></pre>
 </div>
 <p>Sin embargo, la disminución de las emisiones de CO2 dado por el aumento en la producción de energías renovables, es poco visible; esto puede ser causado por la variedad de datos con los que se realiza el gráfico.</p>
 <p>Con el fin de facilitar la realización de gráficos a partir de los datos brindados, se agruparon los datos para algunas de las variables de forma anual.</p>
-<div class="cell" data-hash="Bitacora-2_cache/html/setup_0e84cee89df3758eb9fc8a21f59d6079">
-<div class="sourceCode cell-code" id="cb23"><pre class="sourceCode r code-with-copy"><code class="sourceCode r"><span id="cb23-1"><a href="#cb23-1" aria-hidden="true" tabindex="-1"></a>annual <span class="ot">&lt;-</span> df <span class="sc">%&gt;%</span> <span class="fu">group_by</span>(Year, Country) <span class="sc">%&gt;%</span> <span class="fu">summarise</span>(<span class="at">avg_electricity_price =</span> <span class="fu">mean</span>(Electricity.Prices), <span class="at">avg_production =</span> <span class="fu">sum</span>(Production..GWh.), <span class="at">avg_investment =</span> <span class="fu">sum</span>(Investments..USD.), <span class="at">avg_CO2_emissions =</span> <span class="fu">sum</span>(CO2.Emissions))</span></code><button title="Copiar al portapapeles" class="code-copy-button"><i class="bi"></i></button></pre></div>
+<div class="cell" data-hash="Bitacora-2_cache/html/setup_7865182304e92073a35bba6a15363e95">
+<div class="sourceCode cell-code" id="cb23"><pre class="sourceCode r code-with-copy"><code class="sourceCode r"><span id="cb23-1"><a href="#cb23-1" aria-hidden="true" tabindex="-1"></a>annual <span class="ot">&lt;-</span> df <span class="sc">%&gt;%</span> <span class="fu">group_by</span>(Year, Country) <span class="sc">%&gt;%</span> <span class="fu">summarise</span>(<span class="at">avg_electricity_price =</span> <span class="fu">mean</span>(Electricity.Prices), <span class="at">avg_production =</span> <span class="fu">sum</span>(Production..GWh.), <span class="at">avg_investment =</span> <span class="fu">sum</span>(Investments..USD.), <span class="at">avg_CO2_emissions =</span> <span class="fu">mean</span>(CO2.Emissions))</span></code><button title="Copiar al portapapeles" class="code-copy-button"><i class="bi"></i></button></pre></div>
 <div class="cell-output cell-output-stderr">
 <pre><code>`summarise()` has grouped output by 'Year'. You can override using the
 `.groups` argument.</code></pre>
@@ -590,14 +590,14 @@ Attaching package: 'cowplot'</code></pre>
 </div>
 </div>
 <p>Con esta base de datos anualizada, la relación entre la producción de energías renovables y las emisiones de CO2 resultan mucho más claras.</p>
-<div class="cell" data-hash="Bitacora-2_cache/html/unnamed-chunk-9_04b3cd684aa3909576ce43f28fba9dda">
+<div class="cell" data-hash="Bitacora-2_cache/html/unnamed-chunk-9_fd1cf30735dbfd8216bcd739a5d35fce">
 <div class="sourceCode cell-code" id="cb27"><pre class="sourceCode r code-with-copy"><code class="sourceCode r"><span id="cb27-1"><a href="#cb27-1" aria-hidden="true" tabindex="-1"></a><span class="fu">ggplot</span>(annual, <span class="fu">aes</span>(<span class="at">x =</span> avg_production, <span class="at">y =</span> avg_CO2_emissions)) <span class="sc">+</span></span>
 <span id="cb27-2"><a href="#cb27-2" aria-hidden="true" tabindex="-1"></a>  <span class="fu">geom_smooth</span>(<span class="at">method =</span> <span class="st">"lm"</span>) <span class="sc">+</span></span>
 <span id="cb27-3"><a href="#cb27-3" aria-hidden="true" tabindex="-1"></a>   <span class="fu">labs</span>(</span>
 <span id="cb27-4"><a href="#cb27-4" aria-hidden="true" tabindex="-1"></a>    <span class="at">title =</span> <span class="st">"Energy Production and CO2 Emissions"</span>,</span>
 <span id="cb27-5"><a href="#cb27-5" aria-hidden="true" tabindex="-1"></a>    <span class="at">x =</span> <span class="st">"Renewable energy production"</span>,</span>
 <span id="cb27-6"><a href="#cb27-6" aria-hidden="true" tabindex="-1"></a>    <span class="at">y =</span> <span class="st">"CO2 Emissions"</span></span>
-<span id="cb27-7"><a href="#cb27-7" aria-hidden="true" tabindex="-1"></a>  ) <span class="sc">+</span></span>
+<span id="cb27-7"><a href="#cb27-7" aria-hidden="true" tabindex="-1"></a>  )<span class="sc">+</span></span>
 <span id="cb27-8"><a href="#cb27-8" aria-hidden="true" tabindex="-1"></a>  <span class="fu">theme_cowplot</span>()</span></code><button title="Copiar al portapapeles" class="code-copy-button"><i class="bi"></i></button></pre></div>
 <div class="cell-output cell-output-stderr">
 <pre><code>`geom_smooth()` using formula = 'y ~ x'</code></pre>

diff --git a/docs/index.html b/docs/index.html
@@ -166,7 +166,7 @@ ul.task-list li input[type="checkbox"] {
     <div>
     <div class="quarto-title-meta-heading">Fecha de publicación</div>
     <div class="quarto-title-meta-contents">
-      <p class="date">22 de octubre de 2024</p>
+      <p class="date">23 de octubre de 2024</p>
     </div>
   </div>
   
